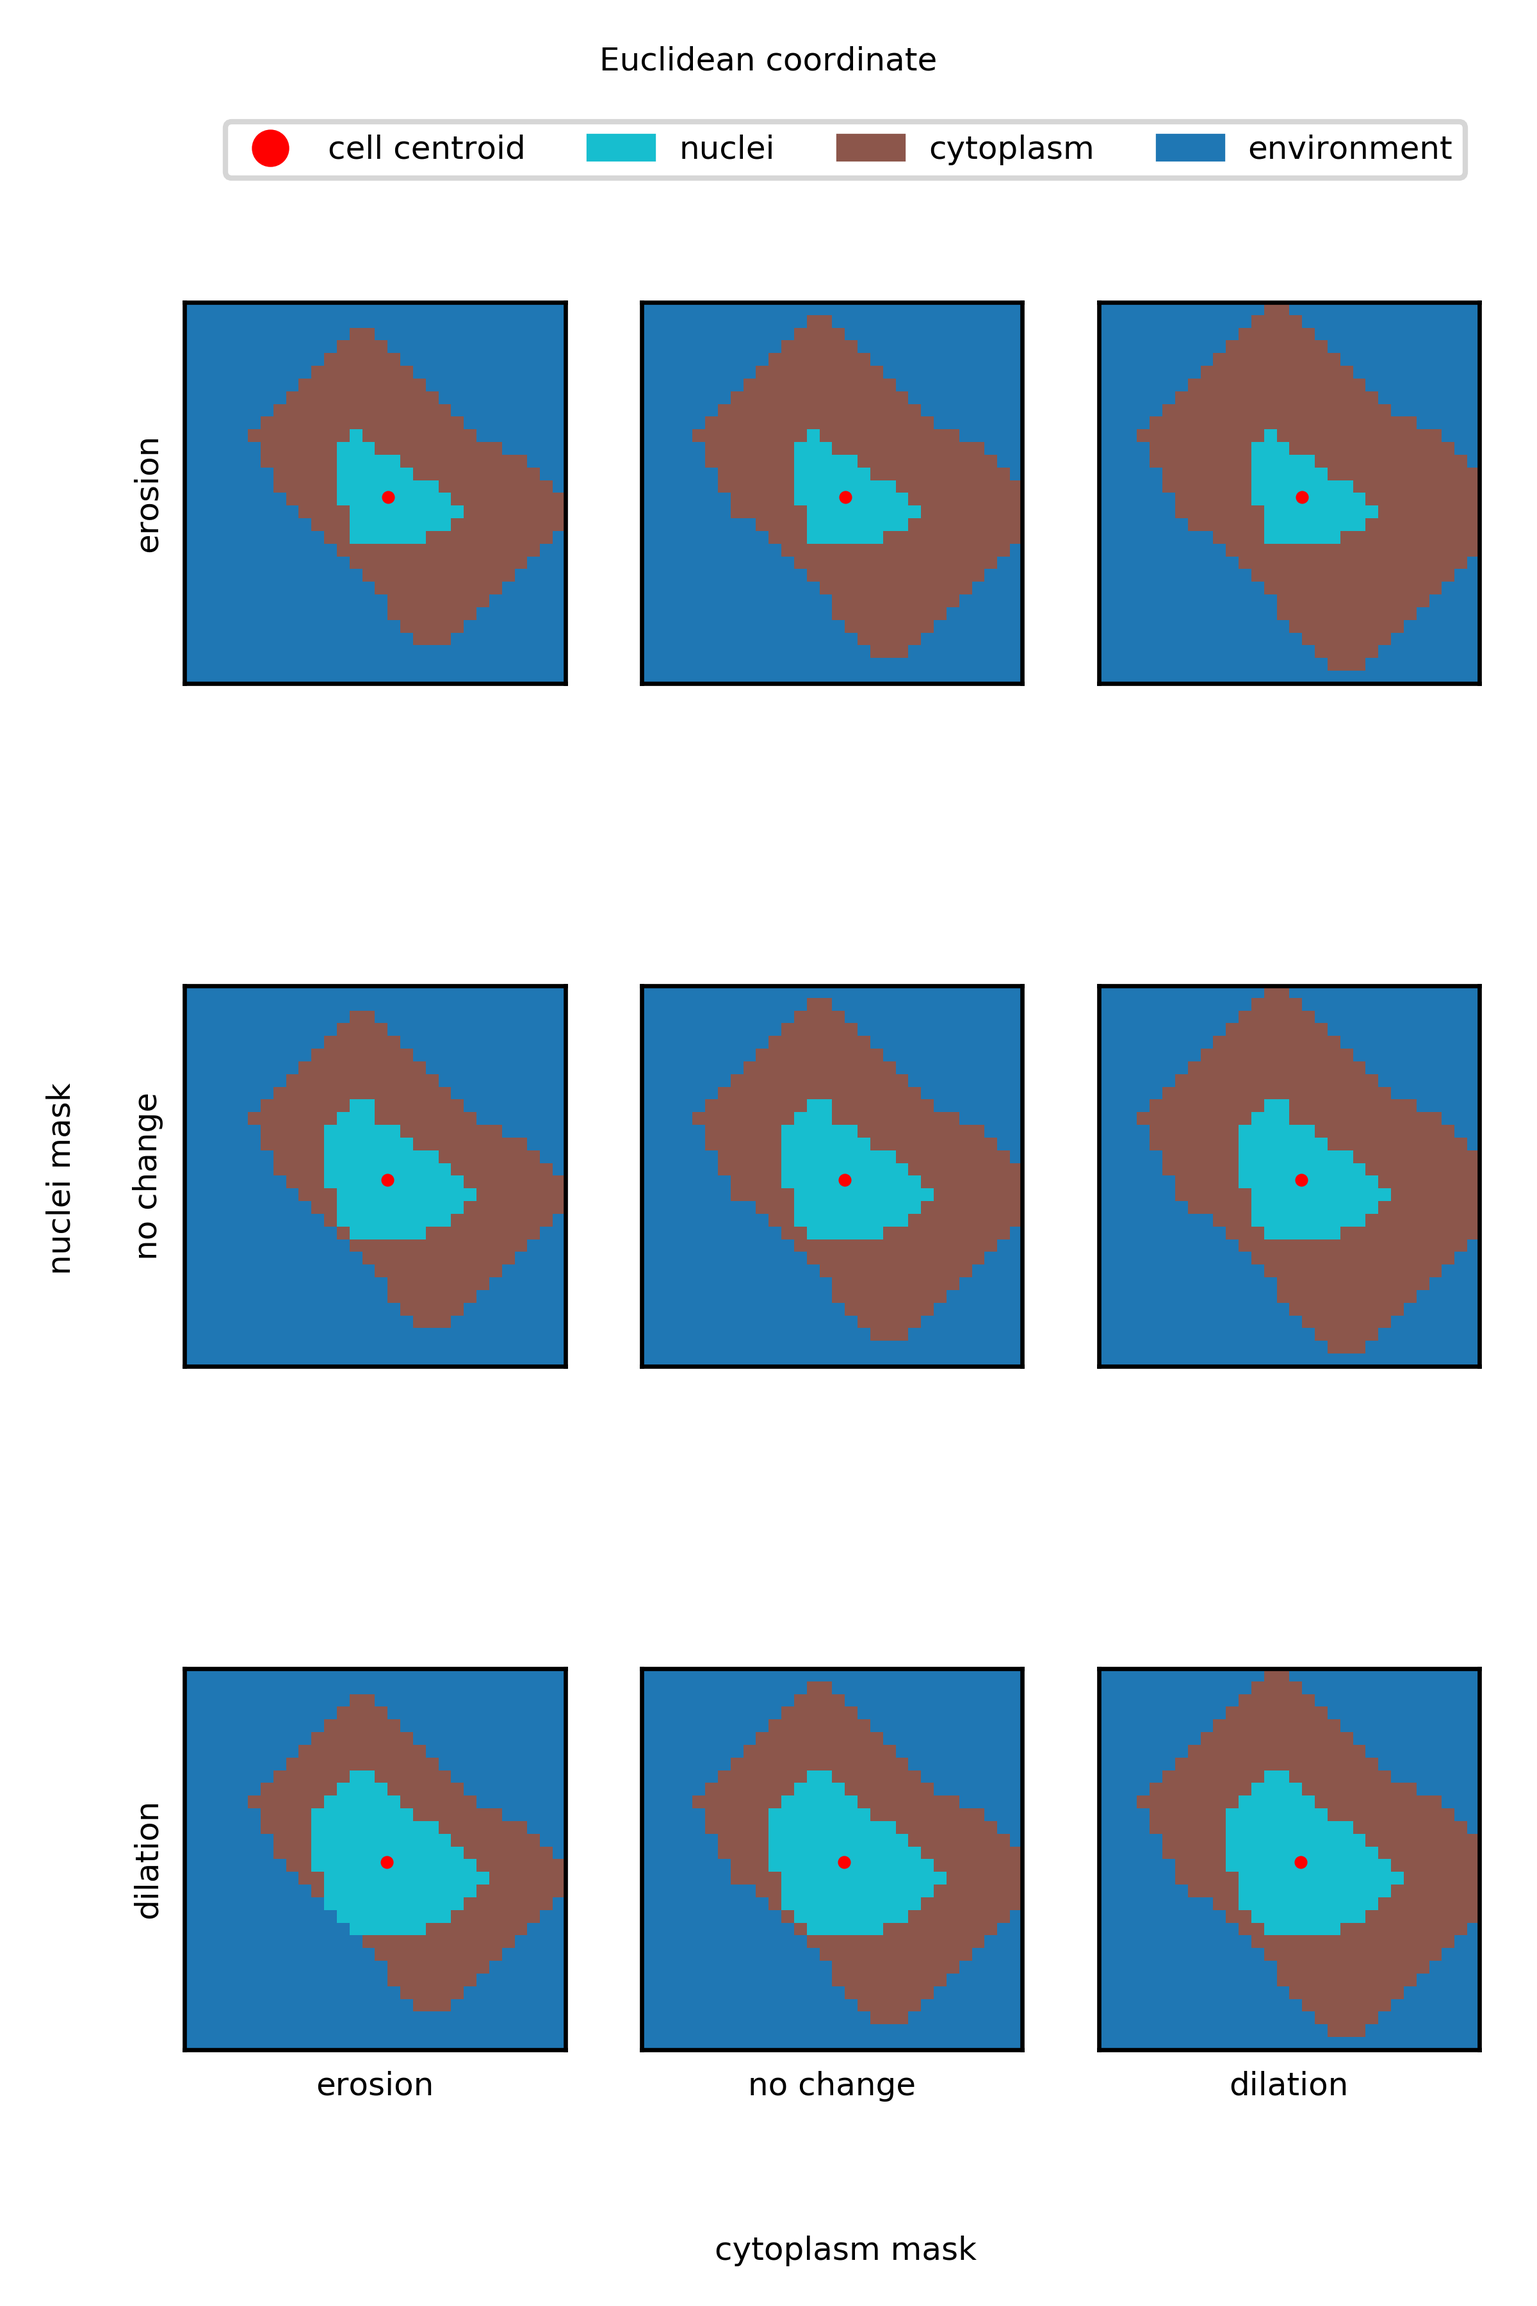
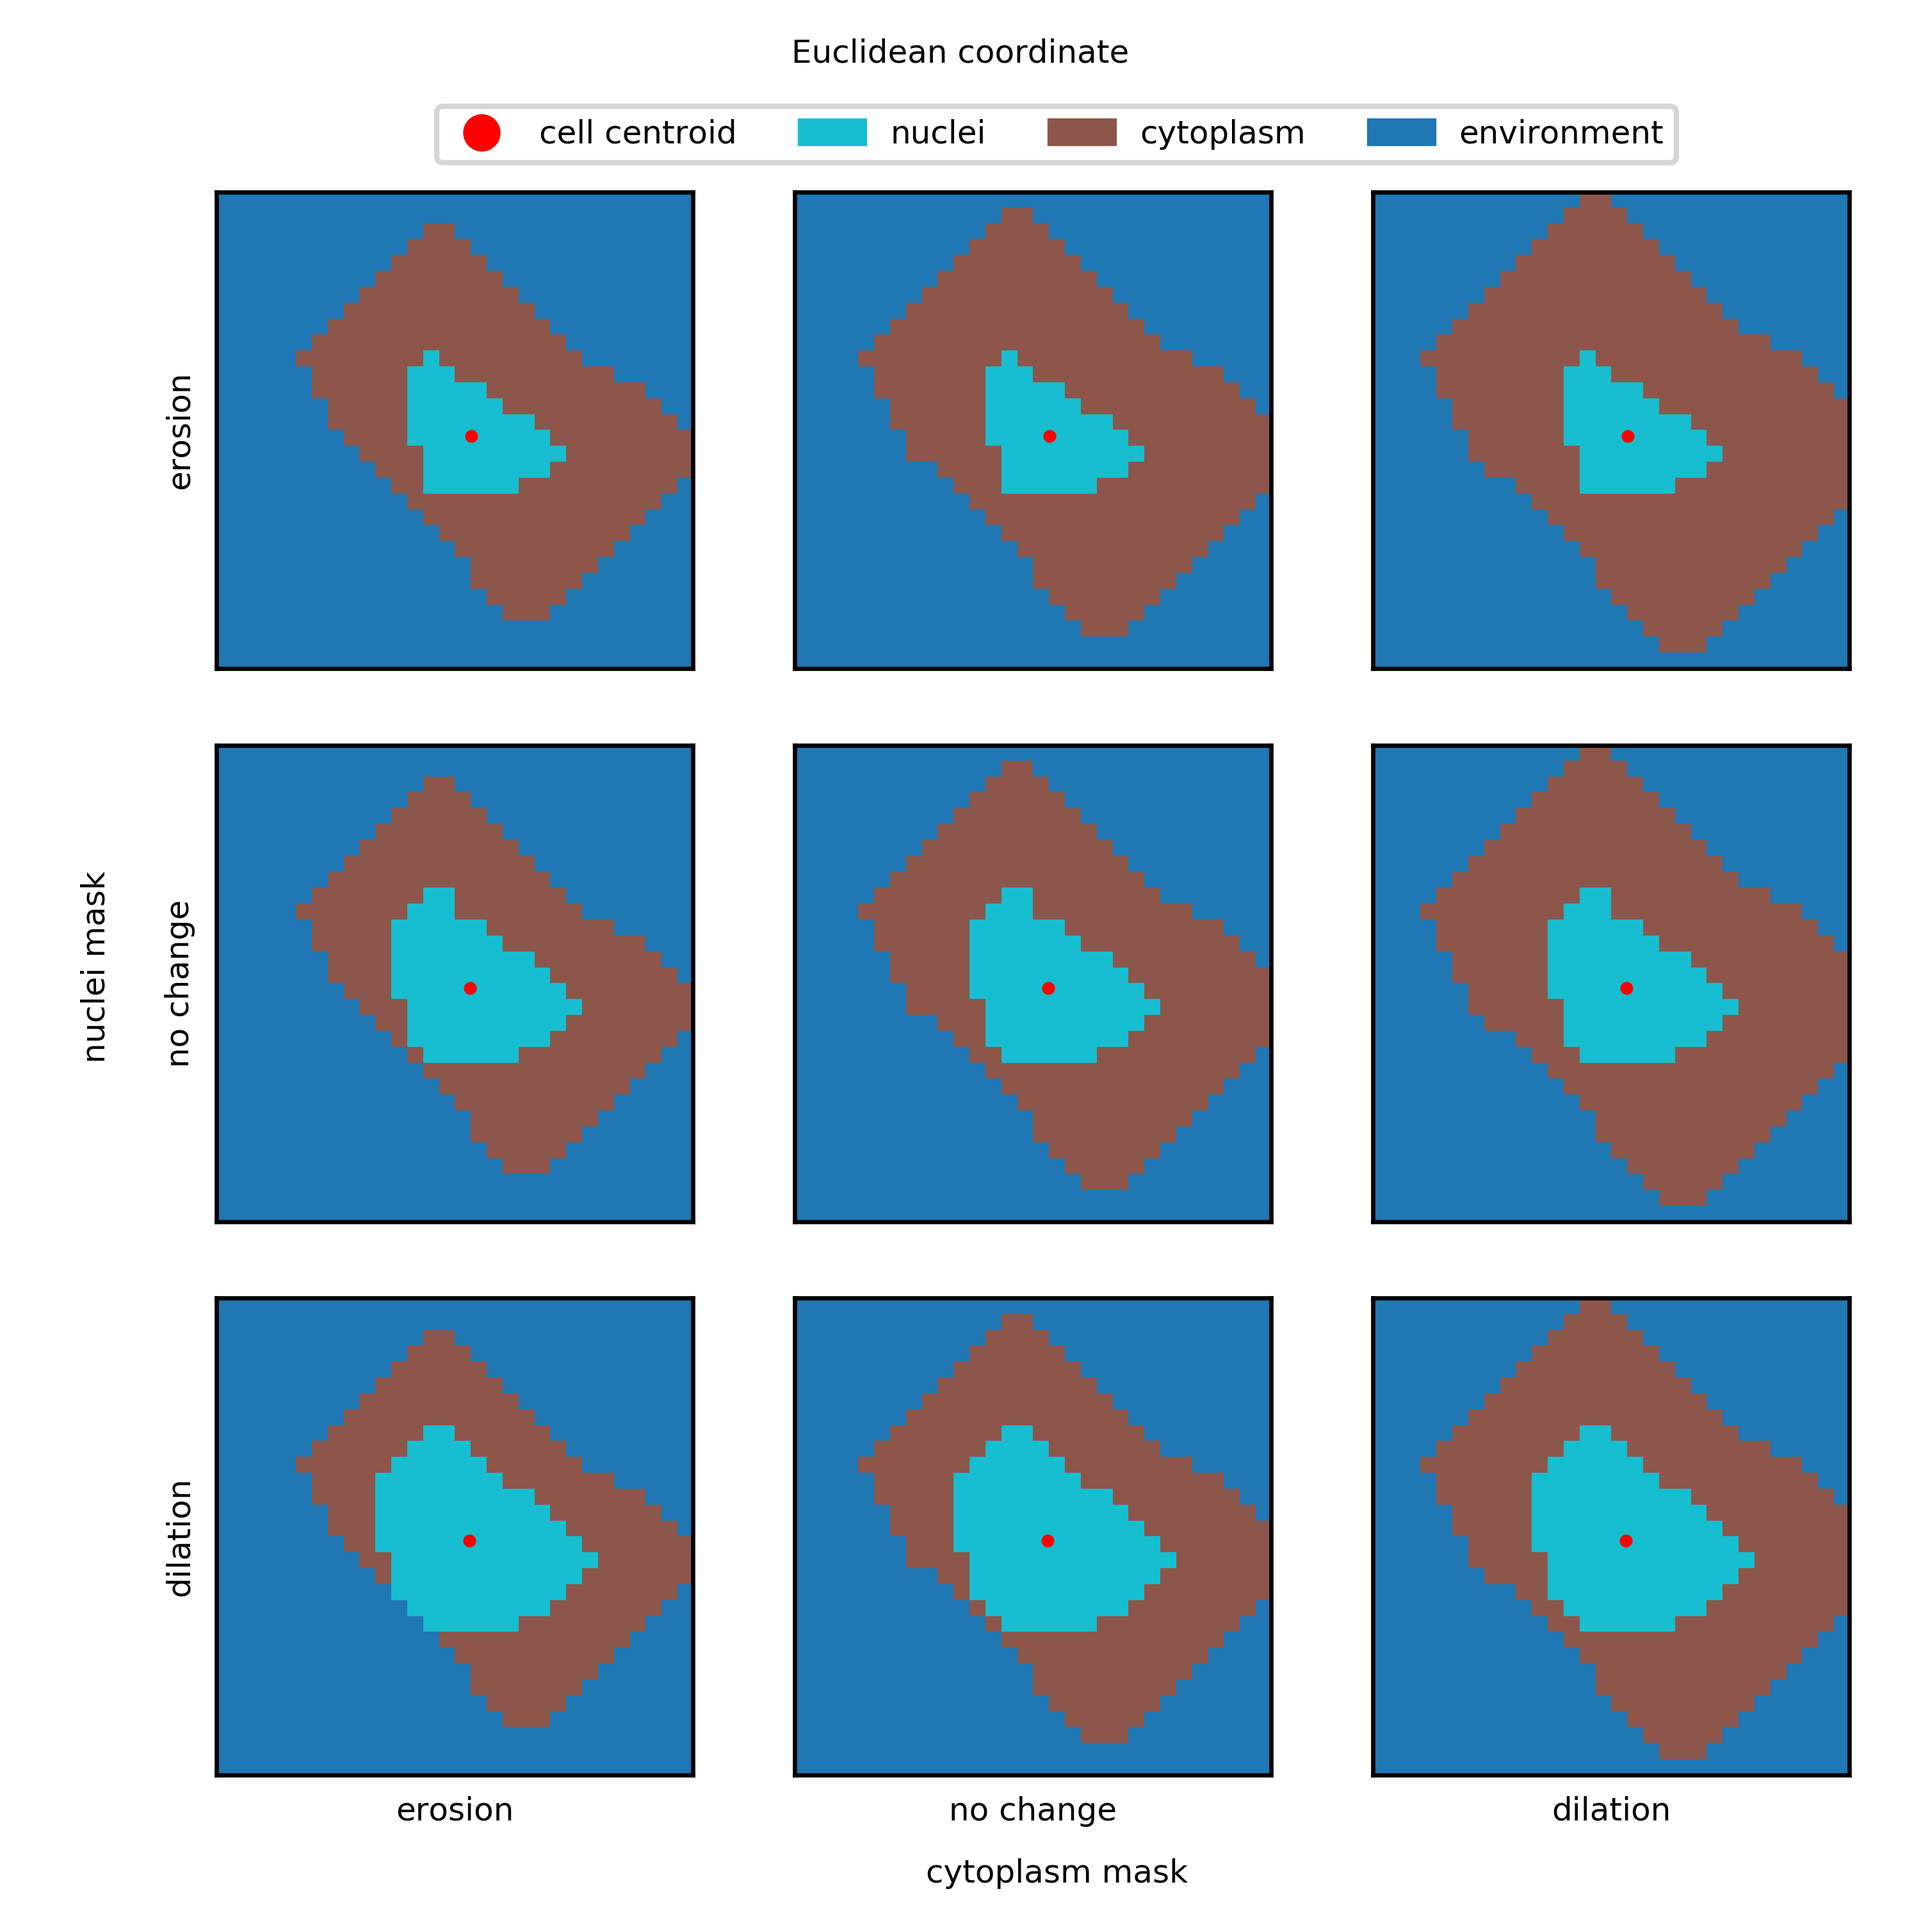
modify spacing

diff --git a/code/fig2_figs1/gen_figs1.py b/code/fig2_figs1/gen_figs1.py
@@ -26,7 +26,7 @@ if __name__ == '__main__':
             rtdata_dict[scenario] = data
 
     # plot euclidean coordinate
-    fig, axes = plt.subplots(ncols=3, nrows=3, figsize=(4, 6))
+    fig, axes = plt.subplots(ncols=3, nrows=3, figsize=(5, 5))
     fs = 6
 
     scenario_list = ['e', 'x', 'd']
@@ -62,20 +62,20 @@ if __name__ == '__main__':
             mpatches.Patch(facecolor='tab:blue', edgecolor='tab:blue',
                 label='environment'),
             ]
-    plt.figlegend(handles=legend_elements, ncol=4, bbox_to_anchor=(0.55, 0.935),
+    plt.figlegend(handles=legend_elements, ncol=4, bbox_to_anchor=(0.55, 0.93),
             loc='center', fontsize=6)
 
     fig.text(0.55, 0.02, 'cytoplasm mask', ha='center', fontsize=fs)
-    fig.text(0.04, 0.45, 'nuclei mask', ha='center', fontsize=fs,
+    fig.text(0.05, 0.45, 'nuclei mask', ha='center', fontsize=fs,
             rotation='vertical')
     fig.suptitle('Euclidean coordinate', fontsize=fs, y=0.98)
-    fig.tight_layout(rect=[0.05, 0, 1, 0.98])
+    fig.tight_layout(rect=[0.05, 0.02, 1, 0.93])
     plt.savefig(output1_filepath, dpi=600)
     plt.show()
     plt.close()
 
     # plot polar coordinate
-    fig, axes = plt.subplots(ncols=3, nrows=3, figsize=(4, 6))
+    fig, axes = plt.subplots(ncols=3, nrows=3, figsize=(5, 5))
     fs = 6
 
     scenario_list = ['e', 'x', 'd']
@@ -106,14 +106,14 @@ if __name__ == '__main__':
             mpatches.Patch(facecolor='tab:blue', edgecolor='tab:blue',
                 label='environment'),
             ]
-    plt.figlegend(handles=legend_elements, ncol=3, bbox_to_anchor=(0.55, 0.935),
+    plt.figlegend(handles=legend_elements, ncol=3, bbox_to_anchor=(0.55, 0.93),
             loc='center', fontsize=6)
 
     fig.text(0.55, 0.02, 'cytoplasm mask', ha='center', fontsize=fs)
-    fig.text(0.04, 0.45, 'nuclei mask', ha='center', fontsize=fs,
+    fig.text(0.05, 0.45, 'nuclei mask', ha='center', fontsize=fs,
             rotation='vertical')
     fig.suptitle('polar coordinate', fontsize=fs, y=0.98)
-    fig.tight_layout(rect=[0.05, 0, 1, 0.98])
+    fig.tight_layout(rect=[0.05, 0.02, 1, 0.93])
     plt.savefig(output2_filepath, dpi=600)
     plt.show()
     plt.close()
